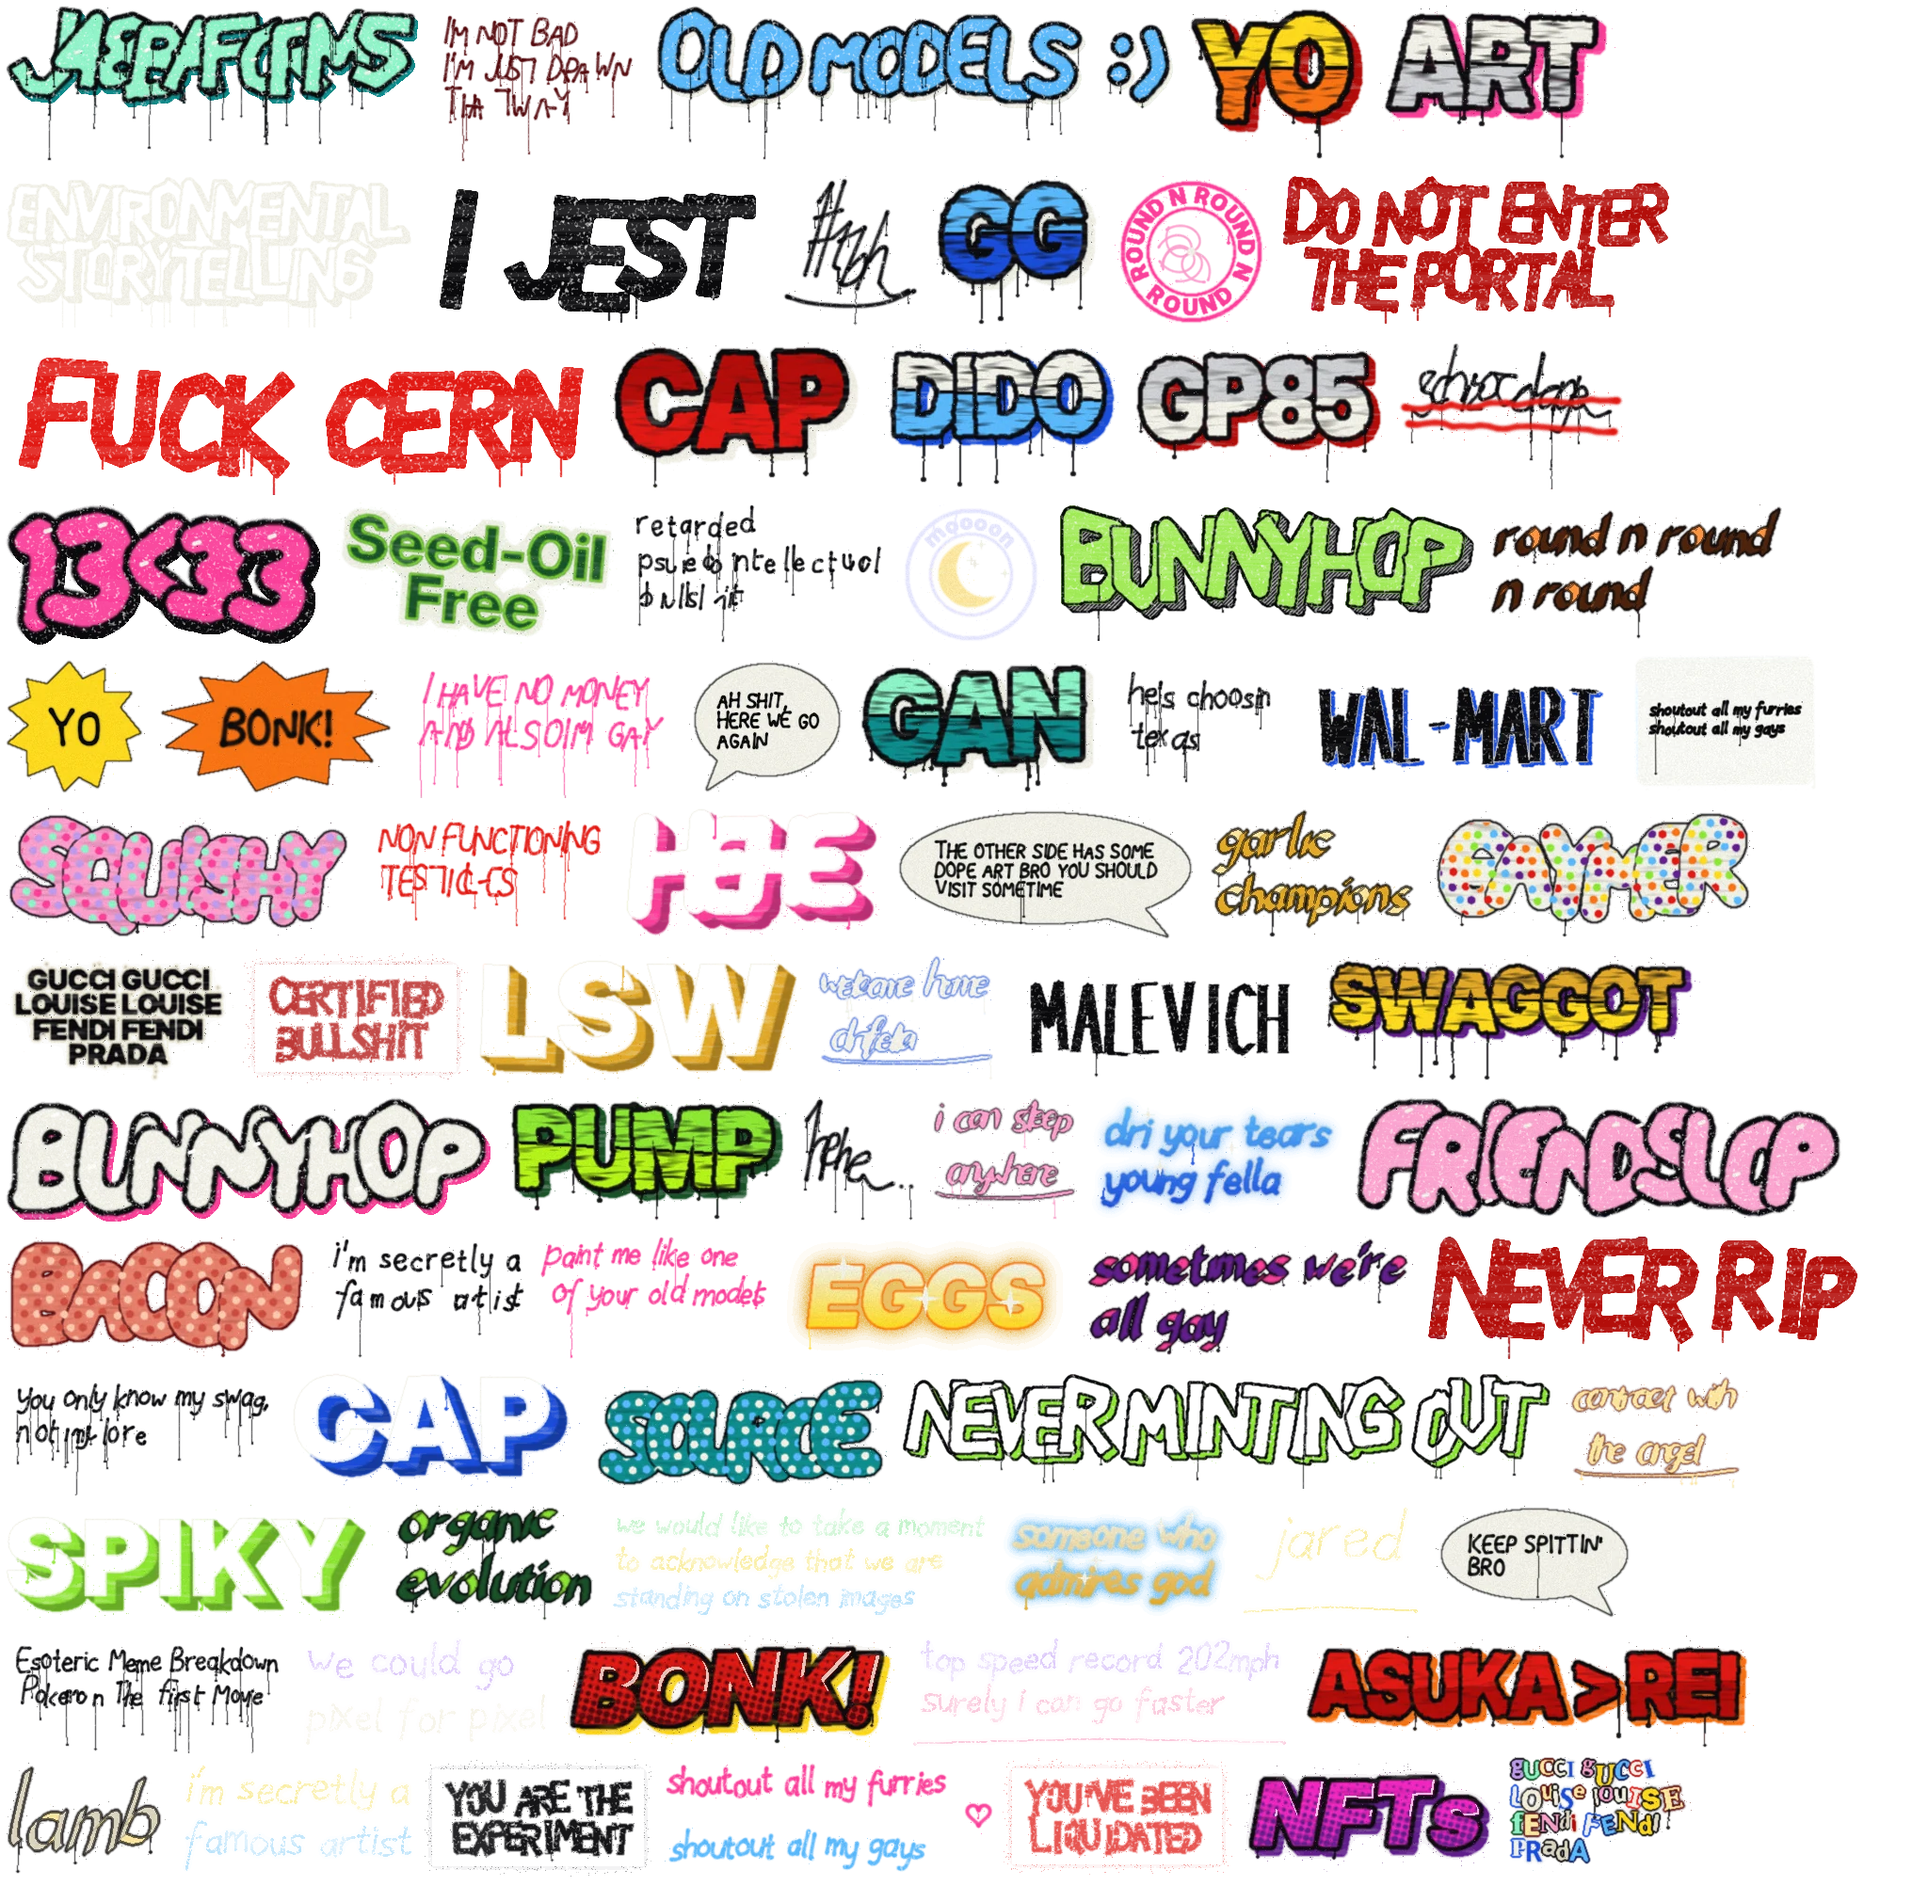
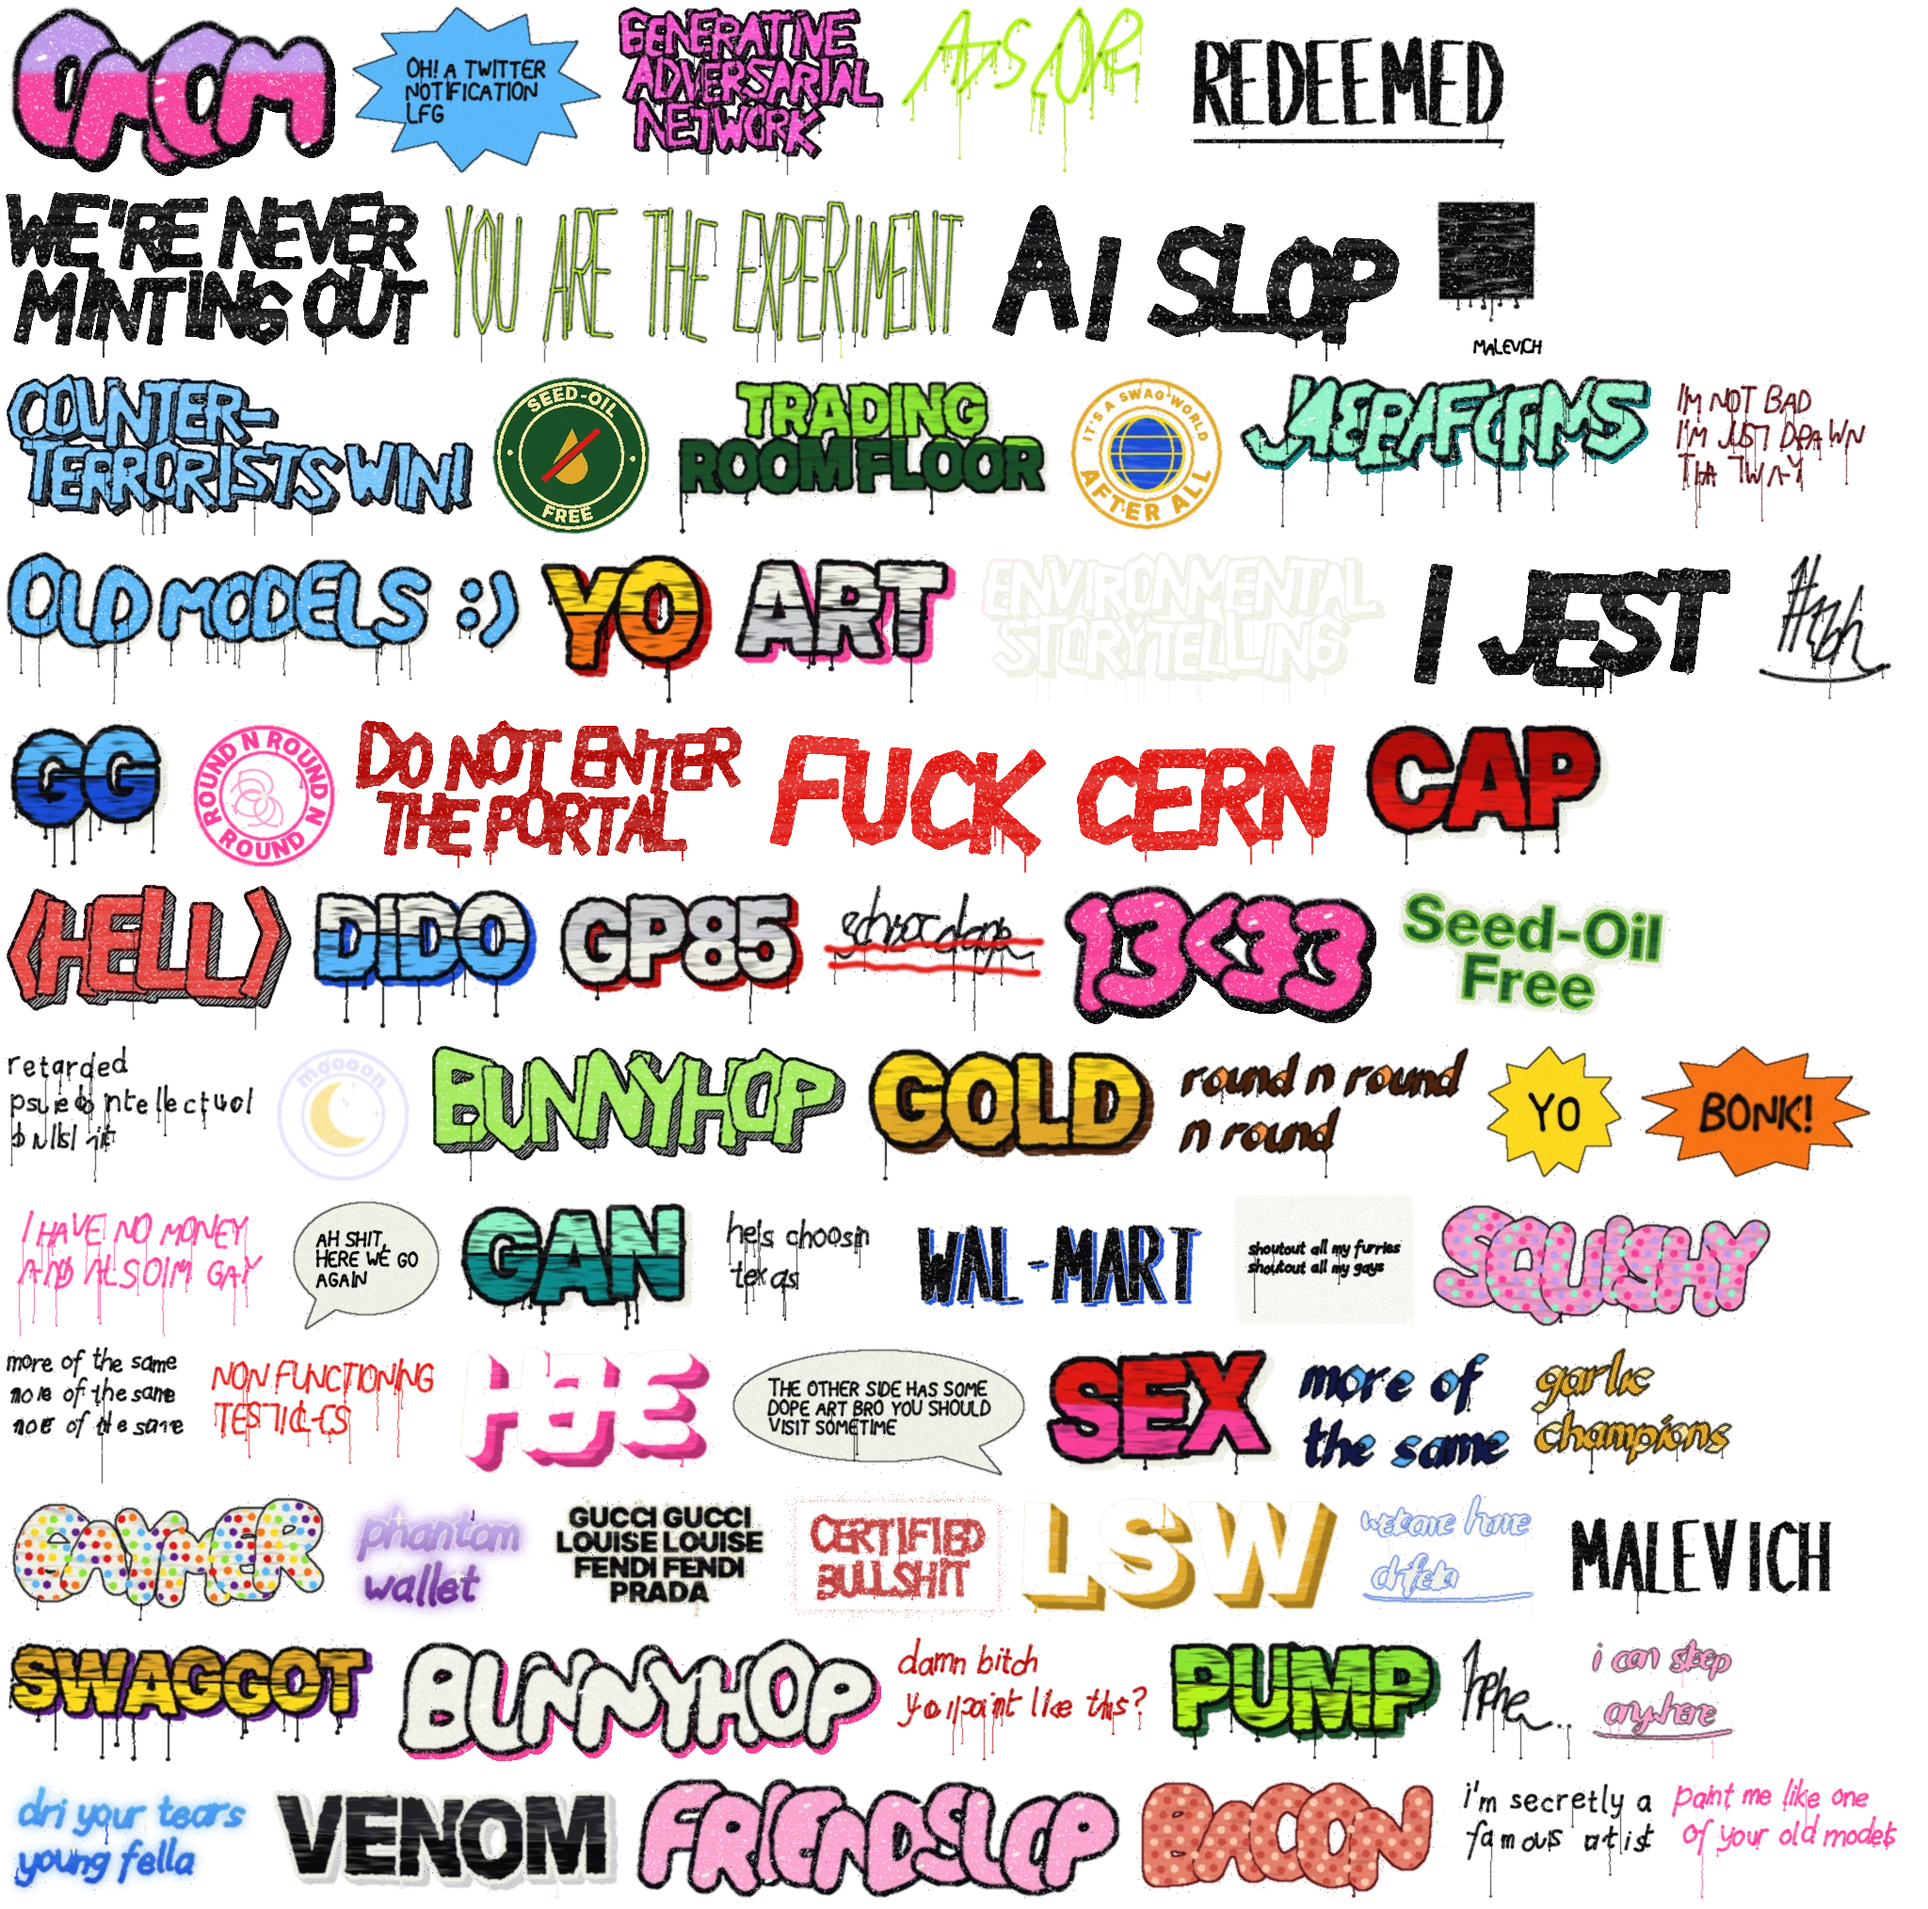
Graffiti batch 5: 14 new phrases, 28 pieces
Claude-Session: https://claude.ai/code/session_01KTYzke645RpUb8Vvjyd6au

diff --git a/tools/graffiti_fourth.py b/tools/graffiti_fourth.py
@@ -30,7 +30,13 @@ from graffiti_third import type_masks, crop_masks, dilate, erode, shift, noise, 
 PX = G.PX_PER_M
 CAUTION = (0.98, 0.8, 0.08)
 G.GLYPHS.setdefault('>', [[(0.0, 0.85), (0.45, 0.5), (0.0, 0.15)]])      # (for ASUKA > REI)
+if '(' not in G.GLYPHS:                    # (for (HELL)): the ')' turned round
+    G.GLYPHS['(' ] = [[(0.3 - x, y) for x, y in st] for st in G.GLYPHS[')']]
+    _mn = min(x for st in G.GLYPHS['('] for x, _ in st)
+    G.GLYPHS['('] = [[(x - _mn, y) for x, y in st] for st in G.GLYPHS['(']]
 # a G that stays a G in fat bubble letters: the top left open, a square spur down the right, a clear crossbar
+# a B that can't be read as an E (two clear bowls), for THUMBS
+CLEAR_B = {'B': [[(0, 0), (0, 1), (0.36, 1), (0.52, 0.9), (0.52, 0.66), (0.36, 0.55), (0.0, 0.55)], [(0.36, 0.55), (0.58, 0.44), (0.58, 0.12), (0.4, 0.0), (0.0, 0.0)]]}
 CLEAR_G = {'G': [[(0.66, 0.92), (0.4, 1.0), (0.1, 0.88), (0.0, 0.5), (0.1, 0.1), (0.38, 0.0), (0.72, 0.0), (0.72, 0.4),
                   (0.36, 0.4)]]}
 
@@ -215,10 +221,10 @@ def shadow_letters(text, color, r, height_m=0.45, depth=(0.11, 0.09), hairline=W
     return runs(cv, color, r, full(block), rate=0.1)
 
 
-def dot_letters(text, colors, r, height_m=0.45, outline=BLACK, brush='round', dot_m=0.05, base=None, lines=None):
+def dot_letters(text, colors, r, height_m=0.45, outline=BLACK, brush='round', dot_m=0.05, base=None, lines=None, glyphs=None, fat=0.19):
     """Bubble letters with a thin sprayed outline, filled with big polka dots in a few colours."""
     hp = height_m * PX
-    masks, (w, h) = G.letter_masks(text, r, hp, int(hp * 0.25), fat=0.19, brush=brush, slant=0.08, spacing=0.04)
+    masks, (w, h) = G.letter_masks(text, r, hp, int(hp * 0.25), fat=fat, brush=brush, slant=0.08, spacing=0.04, glyphs=glyphs)
     masks = [np.asarray(m) > 0 for m in masks]
     u = np.any(masks, 0)
     cv = G.Canvas(u.shape[1], u.shape[0] + int(PX * 0.12))
@@ -445,10 +451,79 @@ def build_fourth(seed=13, only=None):
     return P
 
 
+def build_fifth(seed=17, only=None):
+    """name -> Canvas: the fifth batch, two takes on each phrase in the families the reviews kept"""
+    P = {}
+
+    def add(name, fn):
+        if only and not any(o in name for o in only):
+            return
+        r = rng(name, seed)
+        T.SPRAY, T._R = name.split('_')[0] in THIRD_FAMILIES, np.random.default_rng(zlib.crc32(name.encode()) + 29)
+        try:
+            P[name] = trim(fn(r), 6)
+        finally:
+            T.SPRAY, G.NODRIPS, G.KERN = False, False, 0.0
+
+    def struck_then(first, then, color, r):
+        """a line started, crossed out, and the second thought under it"""
+        a = cross_out(trim(G.scrawl([first], color, r, 0.16, 0.016, drips=0.1)), r, color, 'strike', 0.02)
+        b = trim(G.scrawl([then], color, r, 0.16, 0.016, drips=0.15))
+        return stack([trim(a), b], int(PX * 0.04), 'left')
+
+    # phantom wallet
+    add('sc_phantomwallet', lambda r: G.scrawl(['phantom wallet'], GRAPE, r, 0.2, 0.018, drips=0.15))
+    add('ab_phantomwallet', lambda r: airbrush('phantom\nwallet', (0.85, 0.8, 1.0), GRAPE, r, 0.24, halo=LILAC, sparkles=3))
+    # GOLD
+    add('tu_gold', lambda r: G.piece('GOLD', GOLD, BLACK, r, 0.6, fill_style='fade', fill2=YELLOW, shadow=BROWN, shine=WHITE, fat=0.18))
+    add('bb_gold', lambda r: T.blockbuster('GOLD', YELLOW, BLACK, r, 0.55, fill2=GOLD, shadow=BROWN, streak=0.35, drips=0.15))
+    # is it free?
+    add('sb_isitfree', lambda r: T.speech(['IS IT FREE?'], r, 'round', height_m=0.13))
+    add('ch_isitfree', lambda r: T.chalk(['is it free?'], r, 0.24))
+    # more of the same
+    add('rb_moreofthesame', lambda r: T.ribbon('more of\nthe same', SKY, NAVY, r, 0.28))
+    add('sc_moreofthesame', lambda r: G.scrawl(['more of the same', 'more of the same', 'more of the same'], BLACK, r, 0.13, 0.014,
+                                               drips=0.15))
+    # TRY NOT TO CUM!
+    add('pc_trynottocum', lambda r: G.piece('TRY NOT\nTO CUM!', HOTPINK, BLACK, r, 0.4, fill_style='fade', fill2=WHITE, shadow=BLACK,
+                                            block=GRAPE, **SEMI))
+    add('mp_trynottocum', lambda r: M.mop('', BLACK, r, 0.28, 0.034, lines=['TRY NOT', 'TO CUM!'], drip_rate=1.0, drip_len=0.3))
+    # SEX
+    add('bb_sex', lambda r: T.blockbuster('SEX', RED, BLACK, r, 0.6, fill2=HOTPINK, shadow=WHITE, streak=0.35, drips=0.15))
+    add('tu_sex', lambda r: G.piece('SEX', BUBBLEGUM, BLACK, r, 0.6, shadow=BLOOD, shine=WHITE, fat=0.19))
+    # (HELL)
+    add('pc_hell', lambda r: G.piece('(HELL)', ORANGE, BLACK, r, 0.5, fill_style='fade', fill2=BLOOD, shadow=BLACK, block=OXBLOOD,
+                                     **WILD))
+    add('ol_hell', lambda r: M.outline3d('(HELL)', BLACK, r, 0.5, fill=RED, block_fill=None))
+    # i heard that picasso made some images
+    add('ch_picasso', lambda r: T.chalk(['i heard that picasso', 'made some images'], r, 0.18))
+    add('mk_picasso', lambda r: G.marker('', BLACK, r, 0.14, lines=['i heard that picasso', 'made some images']))
+    # damn bitch you paint like this?
+    add('sc_damnbitch', lambda r: G.scrawl(['damn bitch', 'you paint like this?'], BLOOD, r, 0.18, 0.017, drips=0.15))
+    add('sb_damnbitch', lambda r: T.speech(['DAMN BITCH', 'YOU PAINT LIKE THIS?'], r, 'round', height_m=0.1, tail='right'))
+    # VENOM
+    add('pc_venom', lambda r: G.piece('VENOM', BLACK, WHITE, r, 0.55, fill_style='solid', shadow=WHITE, shine=SILVER, **WILD))
+    add('bb_venom', lambda r: T.blockbuster('VENOM', CHARCOAL, WHITE, r, 0.5, fill2=BLACK, shadow=SILVER, streak=0.35, drips=0.15))
+    # #knightcore
+    add('tag_knightcore', lambda r: G.tag('#knightcore', BLACK, r, height_m=0.34, width_m=0.02, flourish='crown'))
+    add('rb_knightcore', lambda r: T.ribbon('#knightcore', SILVER, CHARCOAL, r, 0.3))
+    # THUMBS UP
+    add('tu_thumbsup', lambda r: G.piece('THUMBS\nUP', YELLOW, BLACK, r, 0.45, shadow=ORANGE, shine=WHITE, fat=0.15, glyphs=CLEAR_B))
+    add('dt_thumbsup', lambda r: dot_letters('THUMBS UP', [YELLOW, ORANGE], r, 0.36, base=WHITE, glyphs=CLEAR_B, fat=0.14))
+    # DR. SLUMP
+    add('tu_drslump', lambda r: G.piece('DR. SLUMP', BUBBLEGUM, BLACK, r, 0.45, shadow=SKY, shine=WHITE, fat=0.17))
+    add('ht_drslump', lambda r: T.halftone('DR. SLUMP', SKY, r, 0.36, dot=COBALT, shadow=HOTPINK))
+    # this and a- no this is enough
+    add('sc_thisisenough', lambda r: struck_then('this and a-', 'no this is enough', BLACK, r))
+    add('mk_thisisenough', lambda r: G.marker('', BLOOD, r, 0.14, lines=['this and a-', 'no this is enough']))
+    return P
+
+
 if __name__ == '__main__':
     import sys, time
     t = time.time()
     only = sys.argv[2].split(',') if len(sys.argv) > 2 else None
     P = build_fourth(only=only)
+    P.update(build_fifth(only=only))
     n = M.sheet(P, sys.argv[1] if len(sys.argv) > 1 else 'fourth_sheet')
     print(len(P), 'pieces', n, 'pages', f'{time.time() - t:.1f}s')

diff --git a/tools/graffiti_tags.py b/tools/graffiti_tags.py
@@ -21,7 +21,7 @@ if __name__ == '__main__':
     t = time.time()
     pieces = M.build_extra()
     batch = {n: 2 for n in pieces}            # which batch each came in (the review page's "latest batch")
-    for k, more in ((3, T.build_third()), (4, F.build_fourth())):
+    for k, more in ((3, T.build_third()), (4, F.build_fourth()), (5, F.build_fifth())):
         assert not set(more) & set(pieces), set(more) & set(pieces)
         pieces.update(more)
         batch.update({n: k for n in more})
